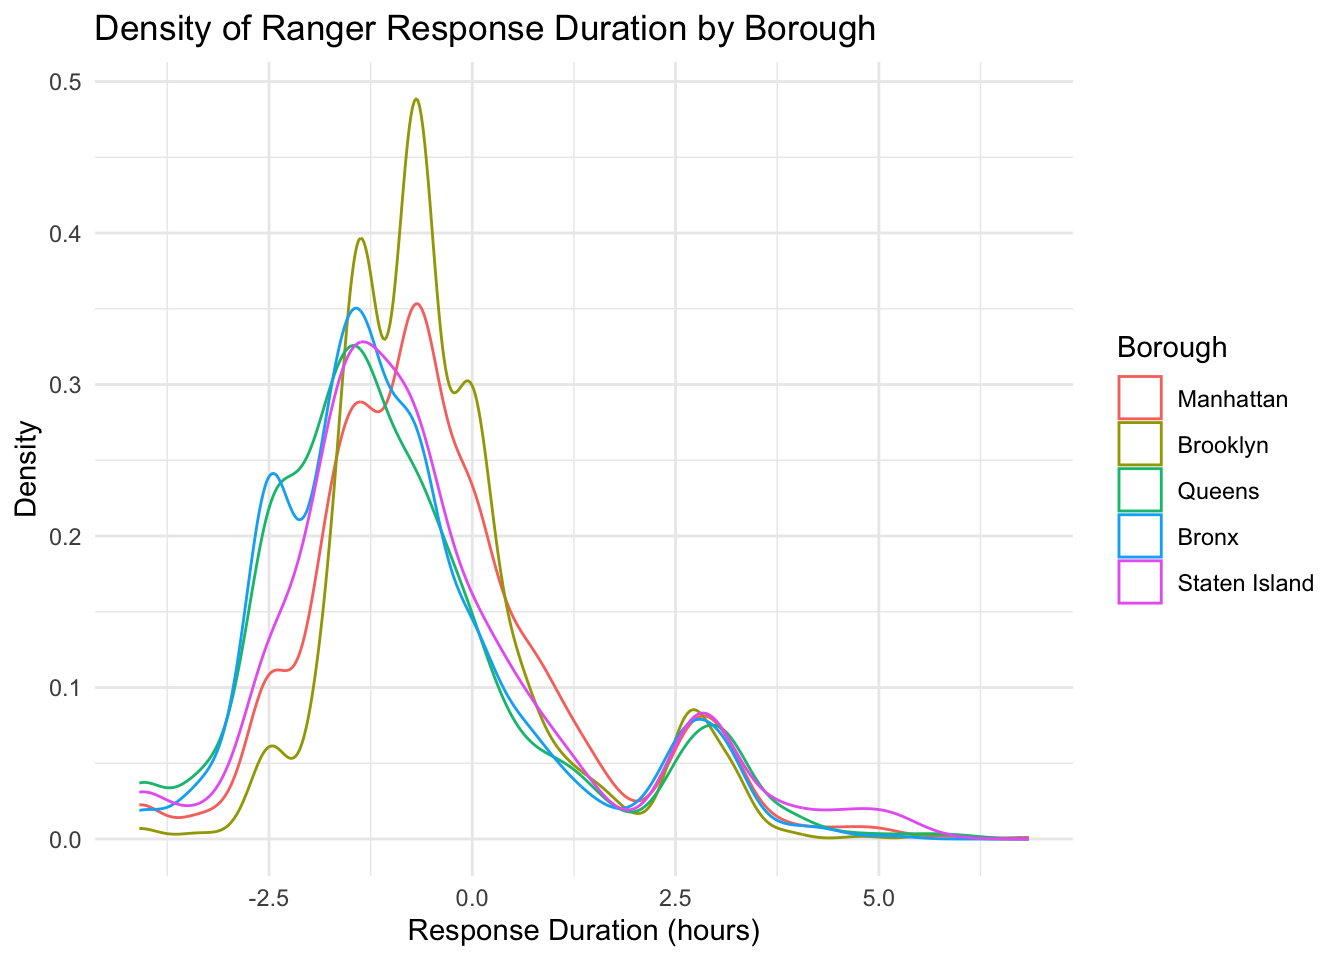
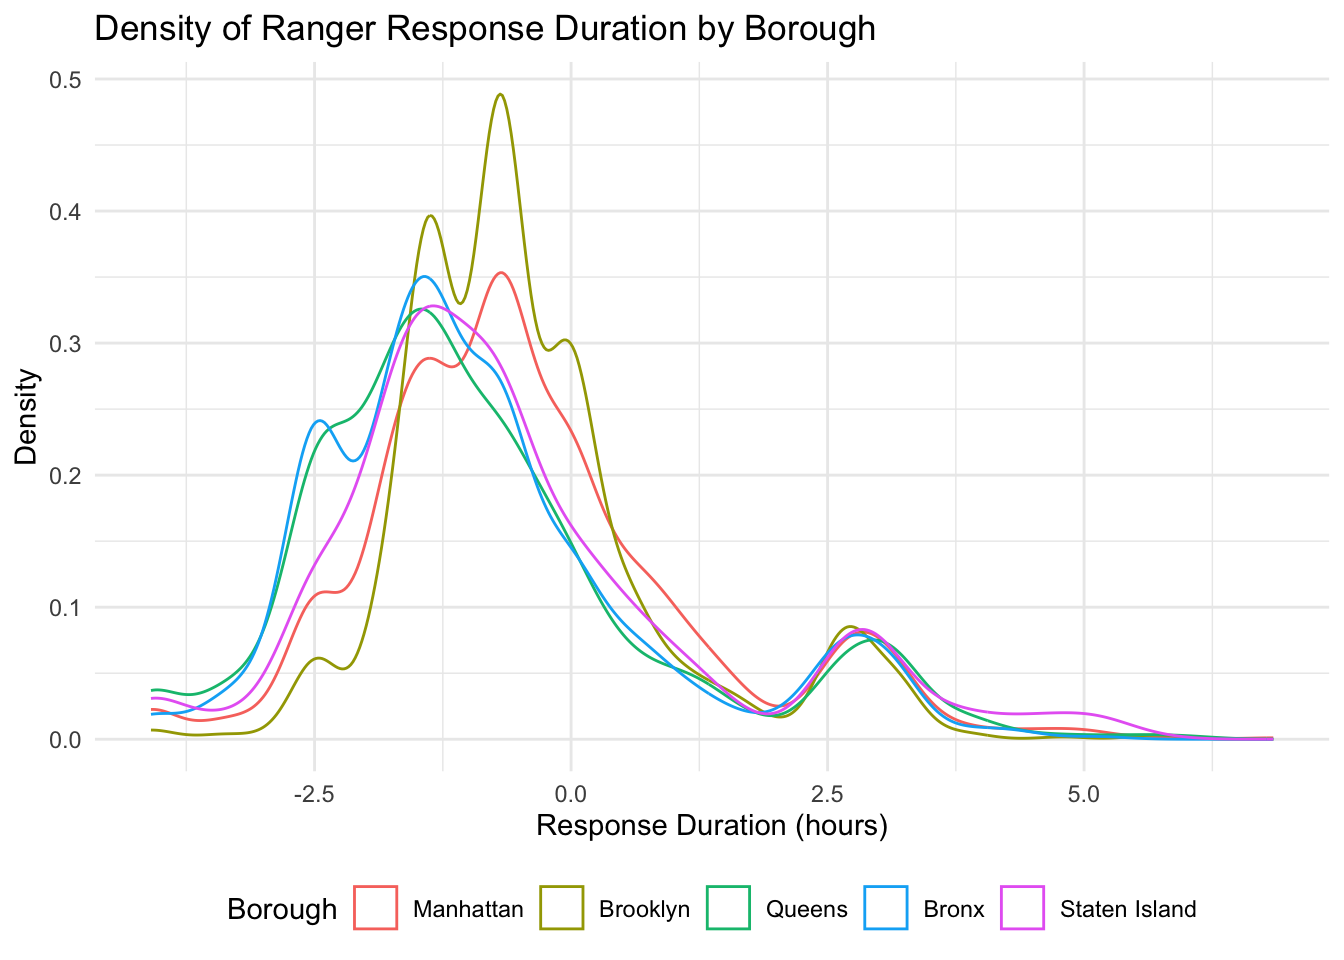
edit legend

diff --git a/Ranger-Response.html b/Ranger-Response.html
@@ -534,7 +534,8 @@ ranger_model %&gt;%
        x = &quot;Response Duration (hours)&quot;,
        y = &quot;Density&quot;,
        color = &quot;Borough&quot;) +
-  theme_minimal()</code></pre>
+  theme_minimal() + 
+  theme(legend.position = &quot;bottom&quot;)</code></pre>
 <p><img src="Ranger-Response_files/figure-html/unnamed-chunk-4-1.png" width="672" /></p>
 <p>Because the response-duration distribution is highly right-skewed,
 with a long tail extending to several hundred hours, we applied a
